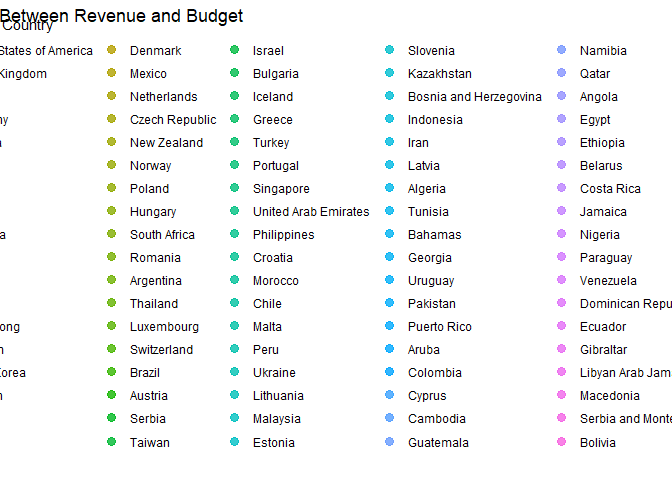
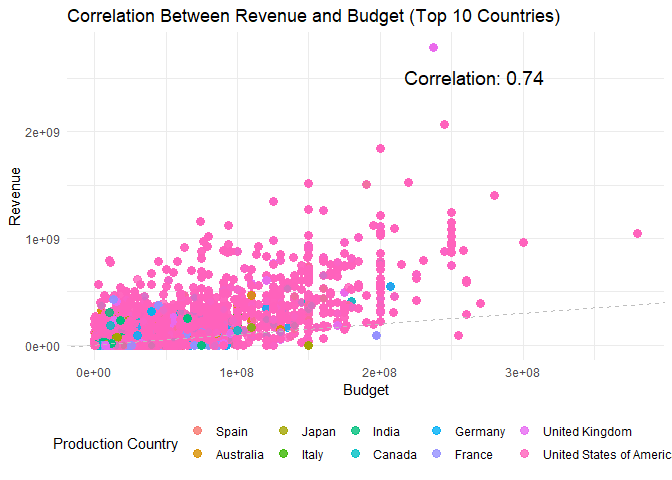
updated solution by madeleine1806

diff --git a/Projects/yhykelly/solution_by_madeleine1806.md b/Projects/yhykelly/solution_by_madeleine1806.md
@@ -60,7 +60,8 @@
         avg_runtime = mean(runtime, na.rm = TRUE),
         avg_vote_average = mean(vote_average, na.rm = TRUE),
         avg_vote_count = mean(vote_count, na.rm = TRUE),
-        avg_popularity = mean(popularity, na.rm = TRUE)
+        avg_popularity = mean(popularity, na.rm = TRUE),
+        .groups = "drop"  
       )
 
     # Group films by year
@@ -73,25 +74,23 @@
         avg_runtime = mean(runtime, na.rm = TRUE),
         avg_vote_average = mean(vote_average, na.rm = TRUE),
         avg_vote_count = mean(vote_count, na.rm = TRUE),
-        avg_popularity = mean(popularity, na.rm = TRUE)
+        avg_popularity = mean(popularity, na.rm = TRUE),
+        .groups = "drop"  
       ) 
 
-
-    # Group films by year & countries (only if JSON formatting worked for countries)
+    # Group films by year & countries
     clean_data_grouped_year_countries <- clean_data %>%
       group_by(year, production_countries) %>%
       summarise(
-      count = n(),
-      avg_revenue = mean(revenue, na.rm = TRUE),
-      avg_budget = mean(budget, na.rm = TRUE),
-      avg_runtime = mean(runtime, na.rm = TRUE),
-      avg_vote_average = mean(vote_average, na.rm = TRUE),
-      avg_vote_count = mean(vote_count, na.rm = TRUE),
-      avg_popularity = mean(popularity, na.rm = TRUE)
+        count = n(),
+        avg_revenue = mean(revenue, na.rm = TRUE),
+        avg_budget = mean(budget, na.rm = TRUE),
+        avg_runtime = mean(runtime, na.rm = TRUE),
+        avg_vote_average = mean(vote_average, na.rm = TRUE),
+        avg_vote_count = mean(vote_count, na.rm = TRUE),
+        avg_popularity = mean(popularity, na.rm = TRUE),
+        .groups = "drop"  
       ) 
-
-    ## `summarise()` has grouped output by 'year'. You can override using the
-    ## `.groups` argument.
 
     # Group films by languages
     clean_data_grouped_language <- clean_data %>%
@@ -103,47 +102,45 @@
         avg_runtime = mean(runtime, na.rm = TRUE),
         avg_vote_average = mean(vote_average, na.rm = TRUE),
         avg_vote_count = mean(vote_count, na.rm = TRUE),
-        avg_popularity = mean(popularity, na.rm = TRUE)
+        avg_popularity = mean(popularity, na.rm = TRUE),
+        .groups = "drop"  
       ) 
 
 ## Data Visualization
 
     ### Plots
 
-    clean_data_grouped_year_countries %>%
-
-      # top-10 countries wrt total_count
-      mutate(total_films = sum(count, na.rm = TRUE),
-             rank = dense_rank(desc(total_films))) %>%
-      filter(rank <= 10) %>%
-
-      #  factorize production countries for output
-      group_by(production_countries) %>%
-      arrange(year) %>%
-      mutate(last_value = last(count, order_by = year)) %>%
-      ungroup() %>%
-      mutate(production_countries = fct_reorder(production_countries, last_value, .desc = TRUE)) |>
-
-      # visualization
-     ggplot(aes(x = year, y = count, color = production_countries)) +
-      geom_line(linewidth = 0.7) +
-      scale_x_continuous(limits = c(min(clean_data_grouped_year_countries$year), 2020)) +
-      scale_y_sqrt() +  # Square root transformation
-      scale_color_viridis_d(option = "C", end = 0.9, name = "Country") +  # More contrasting colors
-      labs(title = "Number of Films by Year & Countries", x = "Year", y = "Number of Films (sqrt scale)") +
-      theme_minimal()
+    # Select top 10 countries
+     top_countries <- clean_data_grouped_year_countries %>%
+       group_by(production_countries) %>%
+       summarise(total_films = sum(count)) %>%
+       arrange(desc(total_films)) %>%
+       slice_head(n = 10) %>%
+       pull(production_countries)
+     
+     # Number of Films by Year & Countries (Top 10 Countries) (only if JSON formatting worked for countries)
+     ggplot(clean_data_grouped_year_countries %>% filter(production_countries %in% top_countries),
+           aes(x = year, y = count, color = production_countries)) +
+       geom_line(linewidth = 0.7) +
+       scale_x_continuous(limits = c(min(clean_data_grouped_year_countries$year), 2020)) +
+      scale_y_continuous(limits = c(0, 500), breaks = seq(0, 500, 50)) +  
+      scale_color_viridis_d(option = "C", end = 0.9, name = "Country")+  
+      labs(title = "Number of Films by Year & Countries", x = "Year", y = "Number of Films") +
+       theme_minimal() +
+       theme(
+        plot.title = element_text(hjust = 0.5, vjust = 1.5)  # Adjusts plot title position
+      )
 
 ![](solution_by_madeleine1806_files/figure-markdown_strict/unnamed-chunk-4-1.png)
 
     # number of genres through different year (use ridgeline plot)
-    clean_data_filtered <- clean_data %>%
-      filter(!is.na(year), !is.na(genres))  # Remove missing values
-
-    ggplot(clean_data_filtered, aes(x = year, y = genres, fill = genres)) +
+    clean_data %>%
+      filter(!is.na(year), !is.na(genres)) %>%  # Remove missing values
+      ggplot(aes(x = year, y = genres, fill = genres)) +
       geom_density_ridges(scale = 1, alpha = 0.7, bandwidth = 2.5, na.rm = TRUE) +  # Set bandwidth
       scale_x_continuous(
-        limits = c(1960, max(clean_data_filtered$year)), 
-        breaks = seq(1960, max(clean_data_filtered$year), by = 10)  # Set 10-year intervals
+        limits = c(1960, max(clean_data$year)), 
+        breaks = seq(1960, max(clean_data$year), by = 10)  # Set 10-year intervals
       ) +
       labs(
         title = "Number of Genres Over Years",
@@ -151,31 +148,37 @@
         y = "Genres"
       ) +
       theme_ridges() +
-      theme(legend.position = "none")
+      theme(
+        legend.position = "none",
+        axis.title.y = element_text(angle = 90, vjust = 1.5, hjust = 0.5),
+        axis.title.x = element_text(vjust = -0.5, hjust = 0.5),
+        plot.title = element_text(hjust = 0.5, vjust = 1.5)
+      )
 
 ![](solution_by_madeleine1806_files/figure-markdown_strict/unnamed-chunk-5-1.png)
 
     ## correlation between revenue and budget 
-    # Add profit_or_loss and status columns
     clean_data <- clean_data %>%
       mutate(
         profit_or_loss = revenue - budget, 
-        status = ifelse(profit_or_loss >= 0, "Profit", "Loss"),
-        production_countries = fct_infreq(production_countries)  # Reorder countries by frequency
-      )
+        status = ifelse(profit_or_loss >= 0, "Profit", "Loss")
+      ) %>%
+      add_count(production_countries, name = "country_count") %>%  # Count occurrences of each country
+      filter(dense_rank(desc(country_count)) <= 10) %>%  # Keep only the top 10 countries
+      mutate(production_countries = fct_reorder(production_countries, country_count))  # Reorder by frequency
 
-    # Calculate correlation
+    # Calculate correlation based on filtered data
     correlation <- cor(clean_data$budget, clean_data$revenue)
     print(correlation)
 
-    ## [1] 0.7412502
+    ## [1] 0.7364136
 
-    # Plot with production countries reordered and legend on the right
+    # Plot
     ggplot(clean_data, aes(x = budget, y = revenue, color = production_countries)) +
       geom_point(size = 3, alpha = 0.8) +
       geom_abline(slope = 1, intercept = 0, linetype = "dashed", color = "gray") +
       labs(
-        title = "Correlation Between Revenue and Budget",
+        title = "Correlation Between Revenue and Budget (Top 10 Countries)",
         x = "Budget",
         y = "Revenue",
         color = "Production Country"
@@ -183,6 +186,6 @@
       annotate("text", x = max(clean_data$budget) * 0.7, y = max(clean_data$revenue) * 0.9,
                label = paste("Correlation:", round(correlation, 2)), size = 5) +
       theme_minimal() +
-      theme(legend.position = "right")  # Move the legend to the right side
+      theme(legend.position = "bottom")  # Move legend to bottom
 
 ![](solution_by_madeleine1806_files/figure-markdown_strict/unnamed-chunk-6-1.png)
